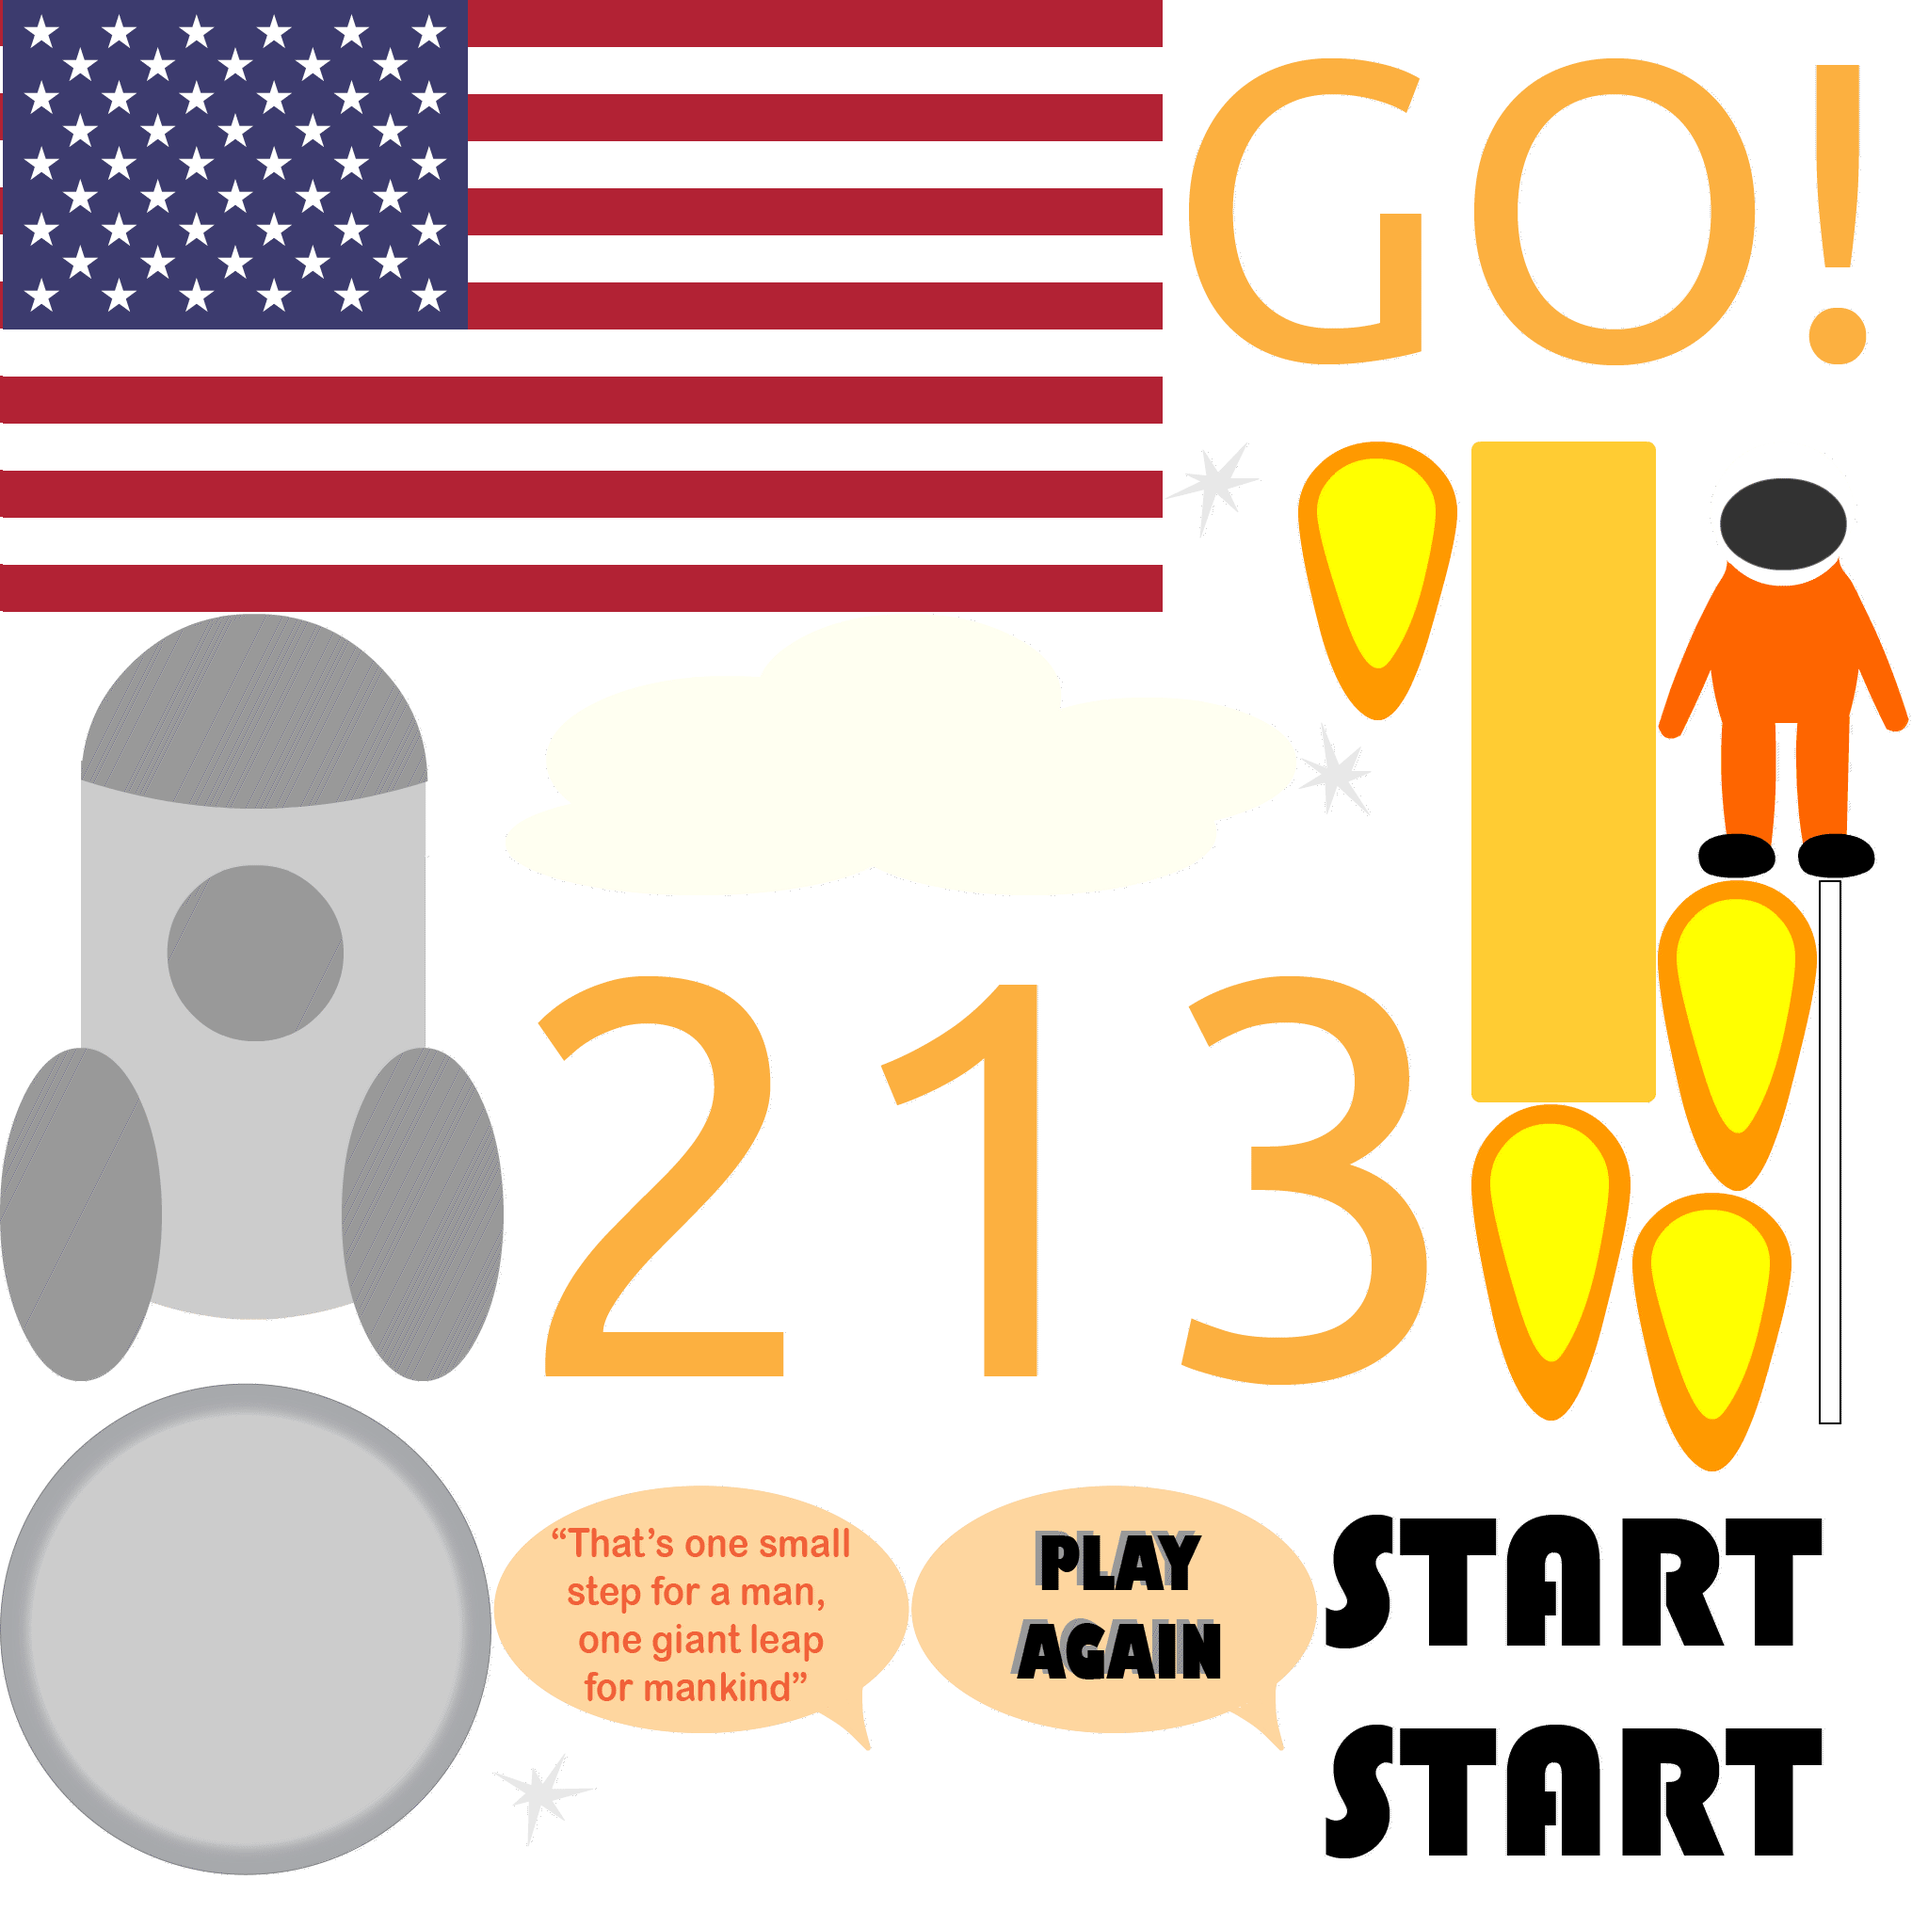
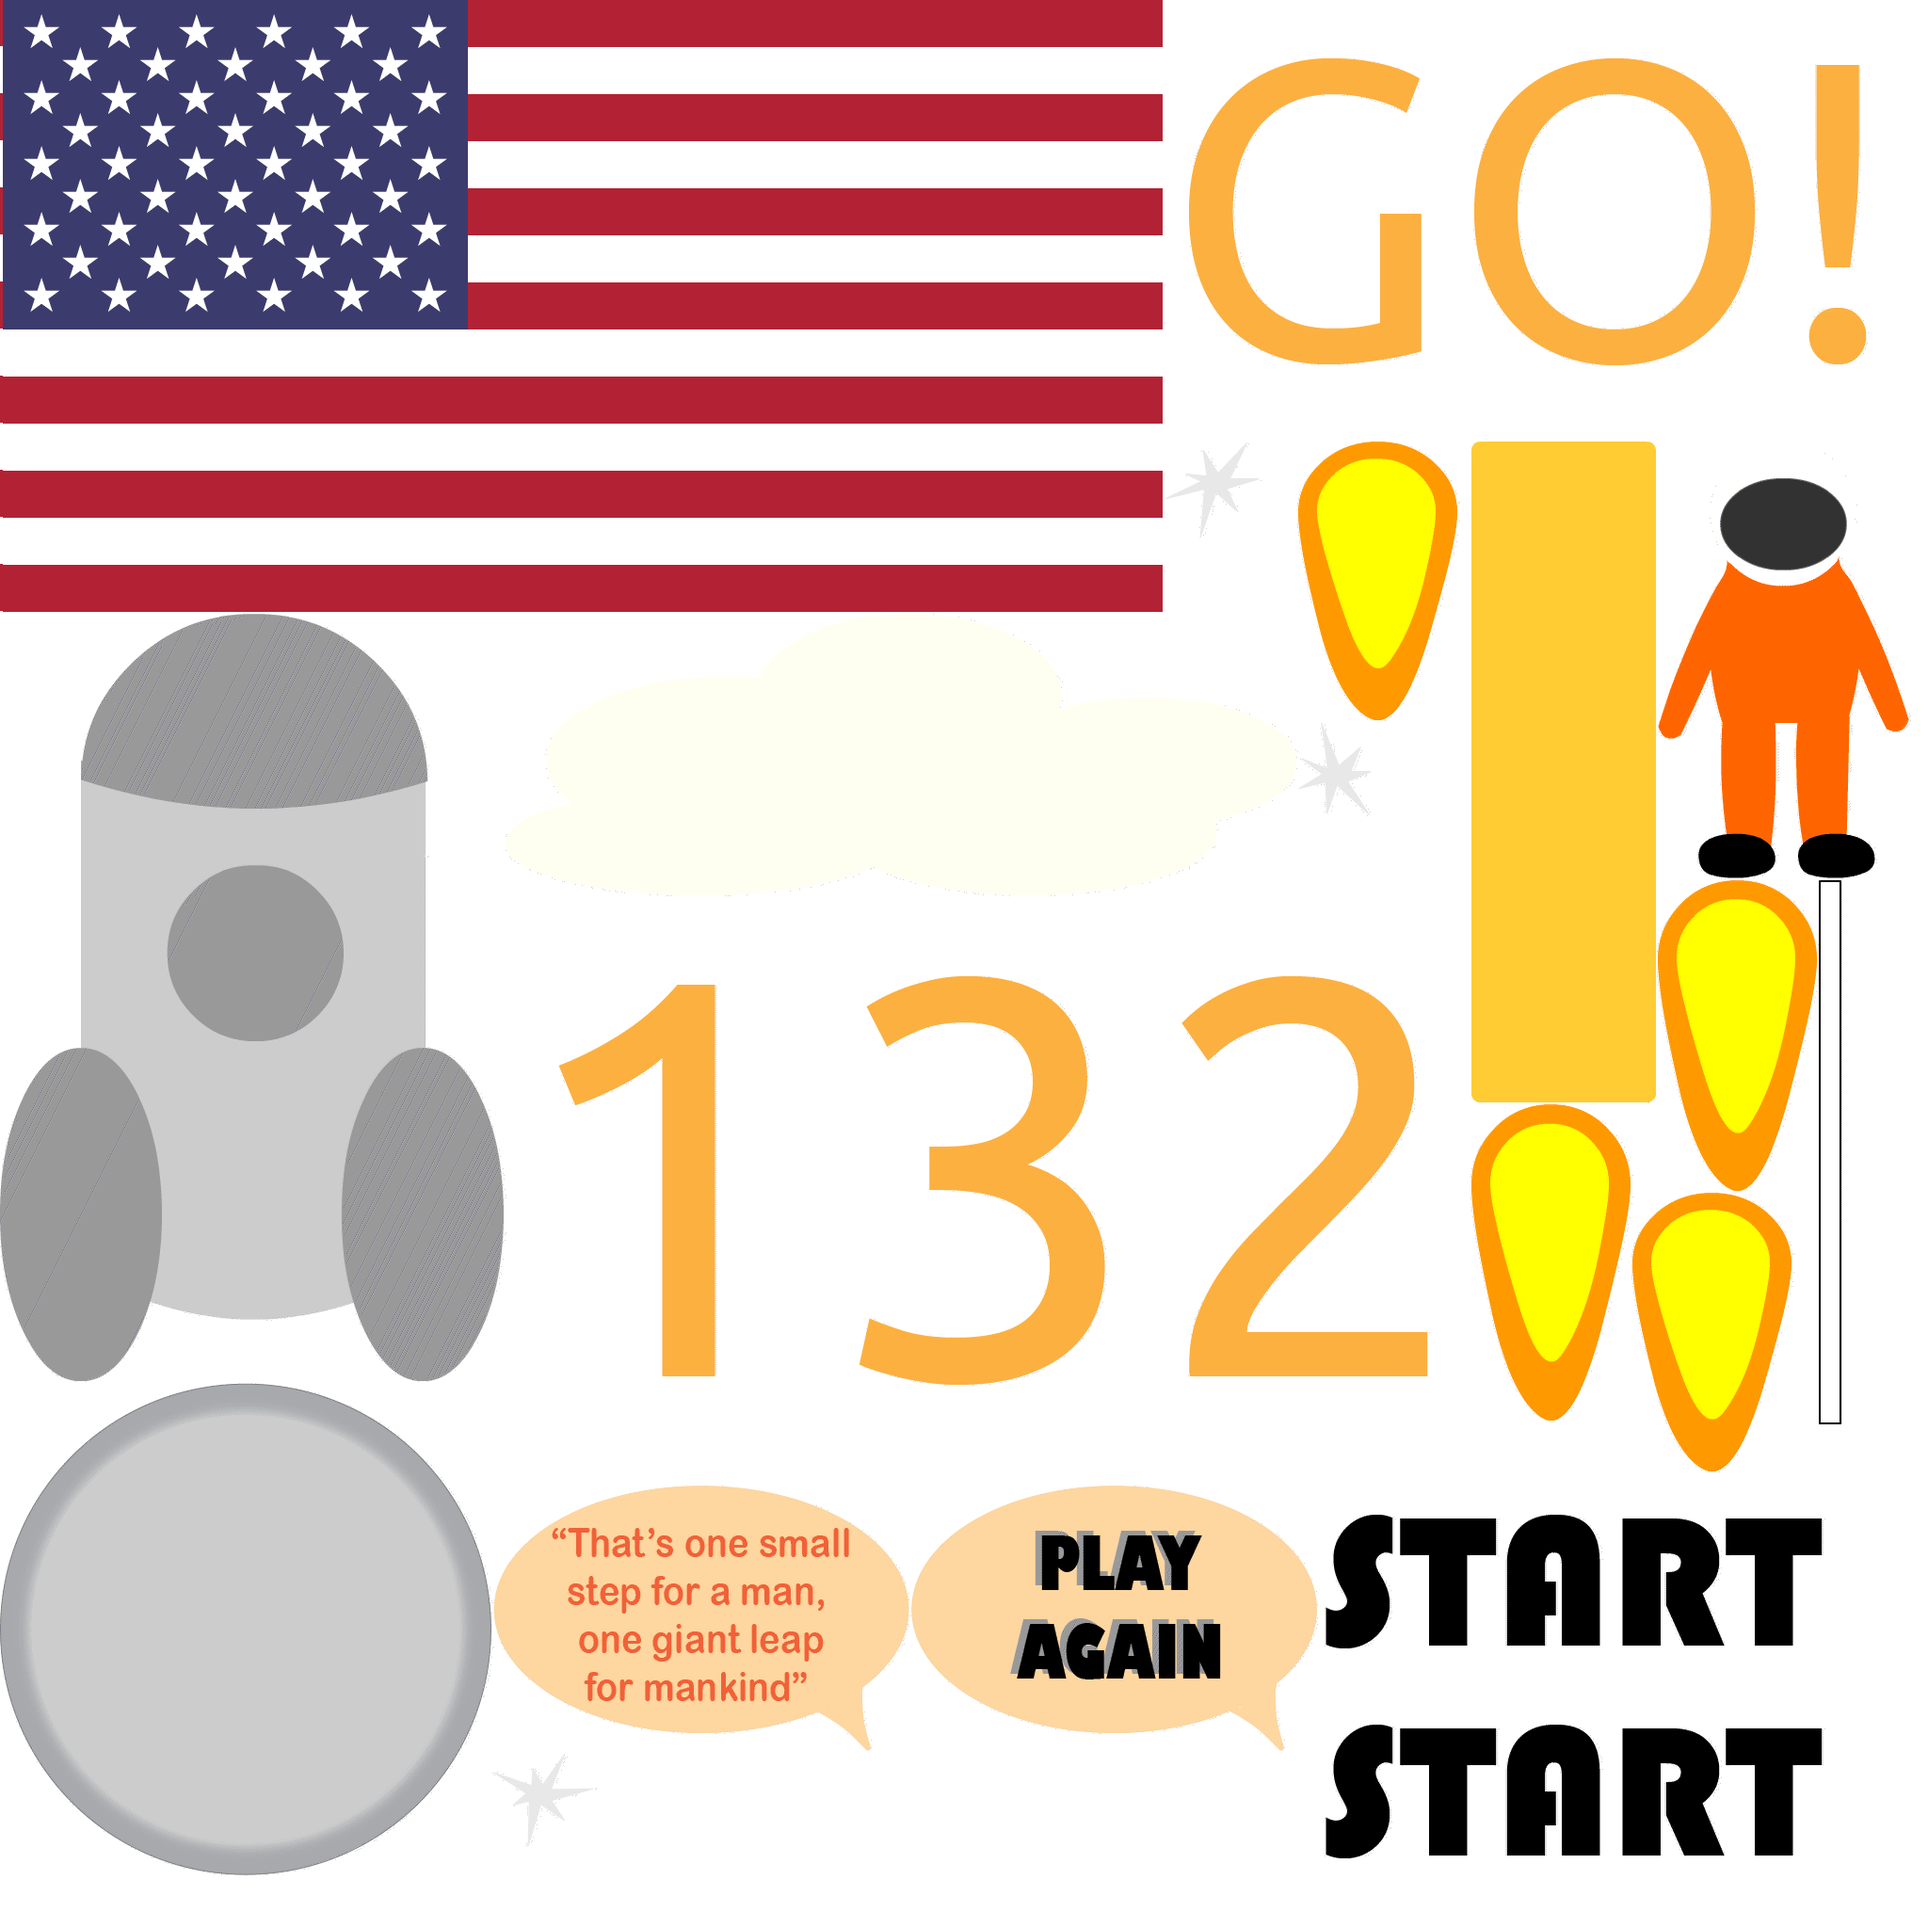
Add files via upload

diff --git a/ManOnTheMoon.js b/ManOnTheMoon.js
@@ -4,7 +4,7 @@ var p; // shortcut to reference prototypes
 var lib={};var ss={};var img={};
 lib.ssMetadata = [
 		{name:"ManOnTheMoon_atlas_", frames: [[0,927,1416,876],[0,0,1496,925]]},
-		{name:"ManOnTheMoon_atlas_2", frames: [[879,953,340,623],[537,953,340,623],[1221,953,340,623],[0,0,1235,650],[968,1578,431,282],[0,1469,522,523],[1734,1267,169,296],[1932,935,24,578],[0,652,535,815],[1237,469,101,103],[1379,767,78,100],[524,1862,107,100],[1563,469,196,702],[537,652,840,299],[1761,469,267,464],[1761,935,169,330],[1379,469,169,296],[1563,1173,169,336],[1237,0,777,467],[524,1578,442,282],[1401,1578,536,221],[1401,1801,536,221]]}
+		{name:"ManOnTheMoon_atlas_2", frames: [[537,953,340,623],[1221,953,340,623],[879,953,340,623],[0,0,1235,650],[968,1578,431,282],[0,1469,522,523],[1734,1267,169,296],[1932,935,24,578],[0,652,535,815],[1237,469,101,103],[1379,767,78,100],[524,1862,107,100],[1563,469,196,702],[537,652,840,299],[1761,469,267,464],[1761,935,169,330],[1379,469,169,296],[1563,1173,169,336],[1237,0,777,467],[524,1578,442,282],[1401,1801,536,221],[1401,1578,536,221]]}
 ];
 
 
@@ -941,6 +941,7 @@ if (loop == null) { loop = false; }	this.initialize(mode,startPosition,loop,{});
 		}
 	}
 	this.frame_4 = function() {
+		createjs.Sound.play("3sec");
 		playSound("_3sec");
 	}
 	this.frame_120 = function() {
@@ -1159,16 +1160,16 @@ lib.properties = {
 	color: "#FFFFFF",
 	opacity: 1.00,
 	manifest: [
-		{src:"images/CachedTexturedBitmap_1.png?1619174996791", id:"CachedTexturedBitmap_1"},
-		{src:"images/CachedTexturedBitmap_15.png?1619174996791", id:"CachedTexturedBitmap_15"},
-		{src:"images/CachedTexturedBitmap_2.png?1619174996791", id:"CachedTexturedBitmap_2"},
-		{src:"images/CachedTexturedBitmap_21.png?1619174996791", id:"CachedTexturedBitmap_21"},
-		{src:"images/CachedTexturedBitmap_22.png?1619174996791", id:"CachedTexturedBitmap_22"},
-		{src:"images/CachedTexturedBitmap_3.png?1619174996791", id:"CachedTexturedBitmap_3"},
-		{src:"images/ManOnTheMoon_atlas_.png?1619174995907", id:"ManOnTheMoon_atlas_"},
-		{src:"images/ManOnTheMoon_atlas_2.png?1619174995907", id:"ManOnTheMoon_atlas_2"},
-		{src:"sounds/_3sec.mp3?1619174996791", id:"_3sec"},
-		{src:"sounds/space1.mp3?1619174996791", id:"space1"}
+		{src:"images/CachedTexturedBitmap_1.png?1619175611396", id:"CachedTexturedBitmap_1"},
+		{src:"images/CachedTexturedBitmap_15.png?1619175611396", id:"CachedTexturedBitmap_15"},
+		{src:"images/CachedTexturedBitmap_2.png?1619175611396", id:"CachedTexturedBitmap_2"},
+		{src:"images/CachedTexturedBitmap_21.png?1619175611396", id:"CachedTexturedBitmap_21"},
+		{src:"images/CachedTexturedBitmap_22.png?1619175611396", id:"CachedTexturedBitmap_22"},
+		{src:"images/CachedTexturedBitmap_3.png?1619175611396", id:"CachedTexturedBitmap_3"},
+		{src:"images/ManOnTheMoon_atlas_.png?1619175610929", id:"ManOnTheMoon_atlas_"},
+		{src:"images/ManOnTheMoon_atlas_2.png?1619175610930", id:"ManOnTheMoon_atlas_2"},
+		{src:"sounds/_3sec.mp3?1619175611396", id:"_3sec"},
+		{src:"sounds/space1.mp3?1619175611396", id:"space1"}
 	],
 	preloads: []
 };

diff --git a/ManOnTheMoon.html b/ManOnTheMoon.html
@@ -22,7 +22,7 @@
   }
 </style>
 <script src="https://code.createjs.com/createjs-2015.11.26.min.js"></script>
-<script src="ManOnTheMoon.js?1619174996871"></script>
+<script src="ManOnTheMoon.js?1619175611562"></script>
 <script>
 // Global Scripts
 	var self=this;
@@ -89,6 +89,6 @@ function playSound(id, loop) {
 		<div id="dom_overlay_container" style="pointer-events:none; overflow:hidden; width:1280px; height:720px; position: absolute; left: 0px; top: 0px; display: none;">
 		</div>
 	</div>
-    <div id='_preload_div_' style='position:absolute; top:0; left:0; display: inline-block; height:720px; width: 1280px; text-align: center;'>	<span style='display: inline-block; height: 100%; vertical-align: middle;'></span>	<img src=images/_preloader.gif?1619174996872 style='vertical-align: middle; max-height: 100%'/></div>
+    <div id='_preload_div_' style='position:absolute; top:0; left:0; display: inline-block; height:720px; width: 1280px; text-align: center;'>	<span style='display: inline-block; height: 100%; vertical-align: middle;'></span>	<img src=images/_preloader.gif?1619175611563 style='vertical-align: middle; max-height: 100%'/></div>
 </body>
 </html>
